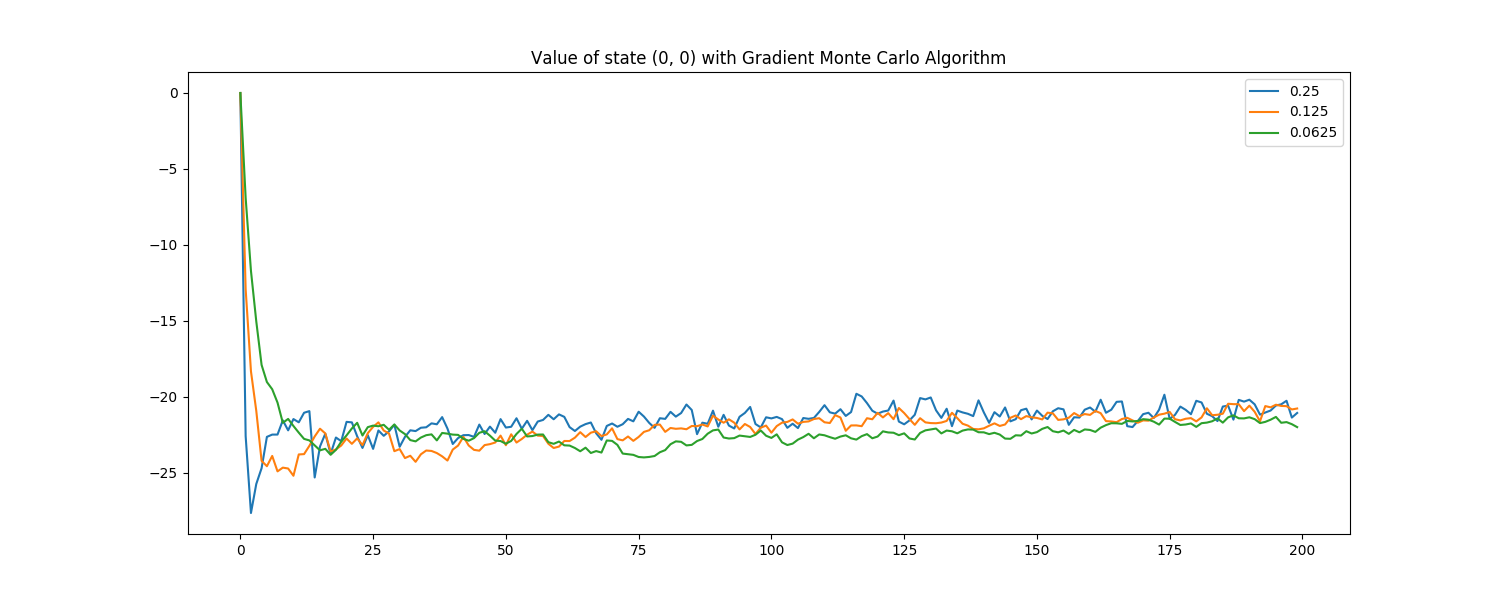
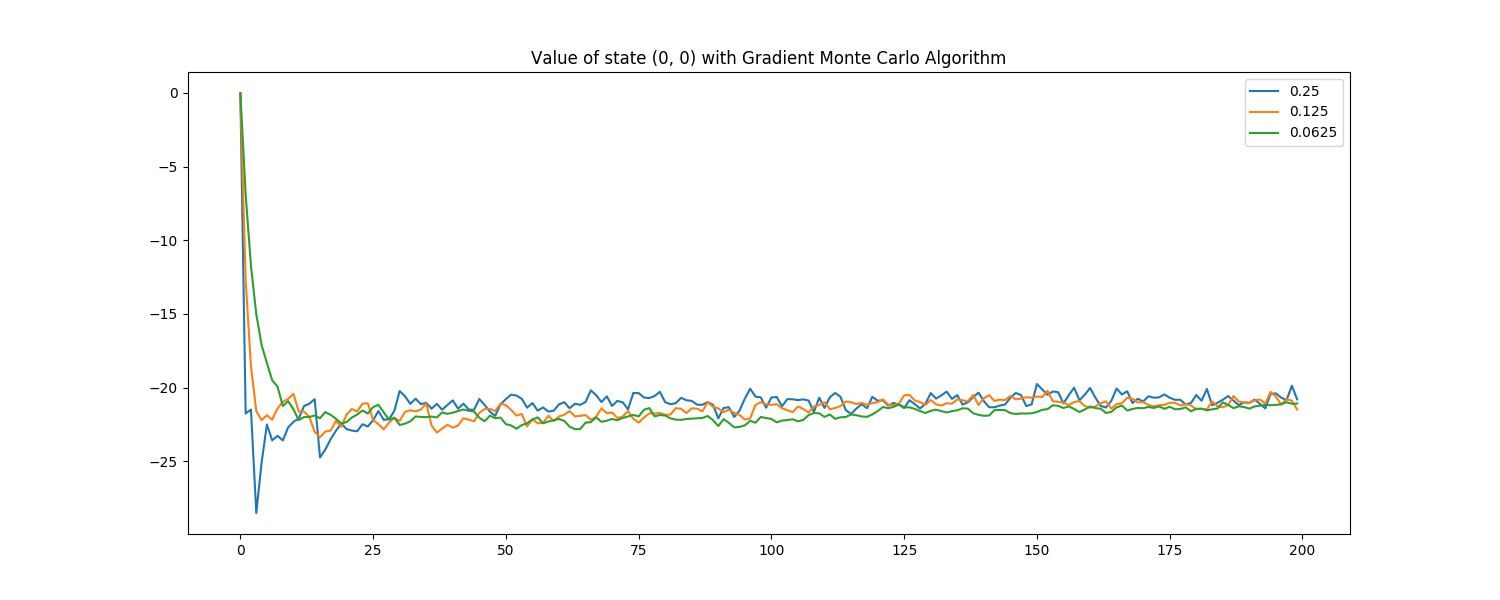
Non-homogeneous disp vector

diff --git a/modelFree.py b/modelFree.py
@@ -166,7 +166,7 @@ gamma = 0.9
 decay_factor_list = [0]
 
 pol = Policy(0.9, 1)
-disp_vector = np.array([1, 1])
+disp_vector = np.array([1, 2])
 tile = TileCoding(5, 10, disp_vector)
 model = Model(inp_size)
 ret = ReturnCalculator()
@@ -202,17 +202,6 @@ for l, decay_factor in enumerate(decay_factor_list):
 
                     model.weights = model.weights + (alpha / tile.n_tilings) * delta * trace
 
-                # while done is False:
-                #     action = pol.get_action(state[2])
-                #     next_state, reward, done, info = env.step(action)
-                #     next_state_feat = tile.get_features(next_state)
-                #     delta = reward + gamma * model.forward(next_state_feat) - model.forward(state_feat)
-                #     trace = gamma * decay_factor * trace + state_feat
-
-                #     model.weights = model.weights + (alpha / tile.n_tilings) * delta * trace
-
-                #     state = next_state
-                #     state_feat = next_state_feat
         value[k] = np.mean(val, axis=0)
         print('Value of state (0, 0) for lambda = %.2f, alpha = %.2f = %.2f\n' % (decay_factor, alpha, value[k][-1]), end="")
 
